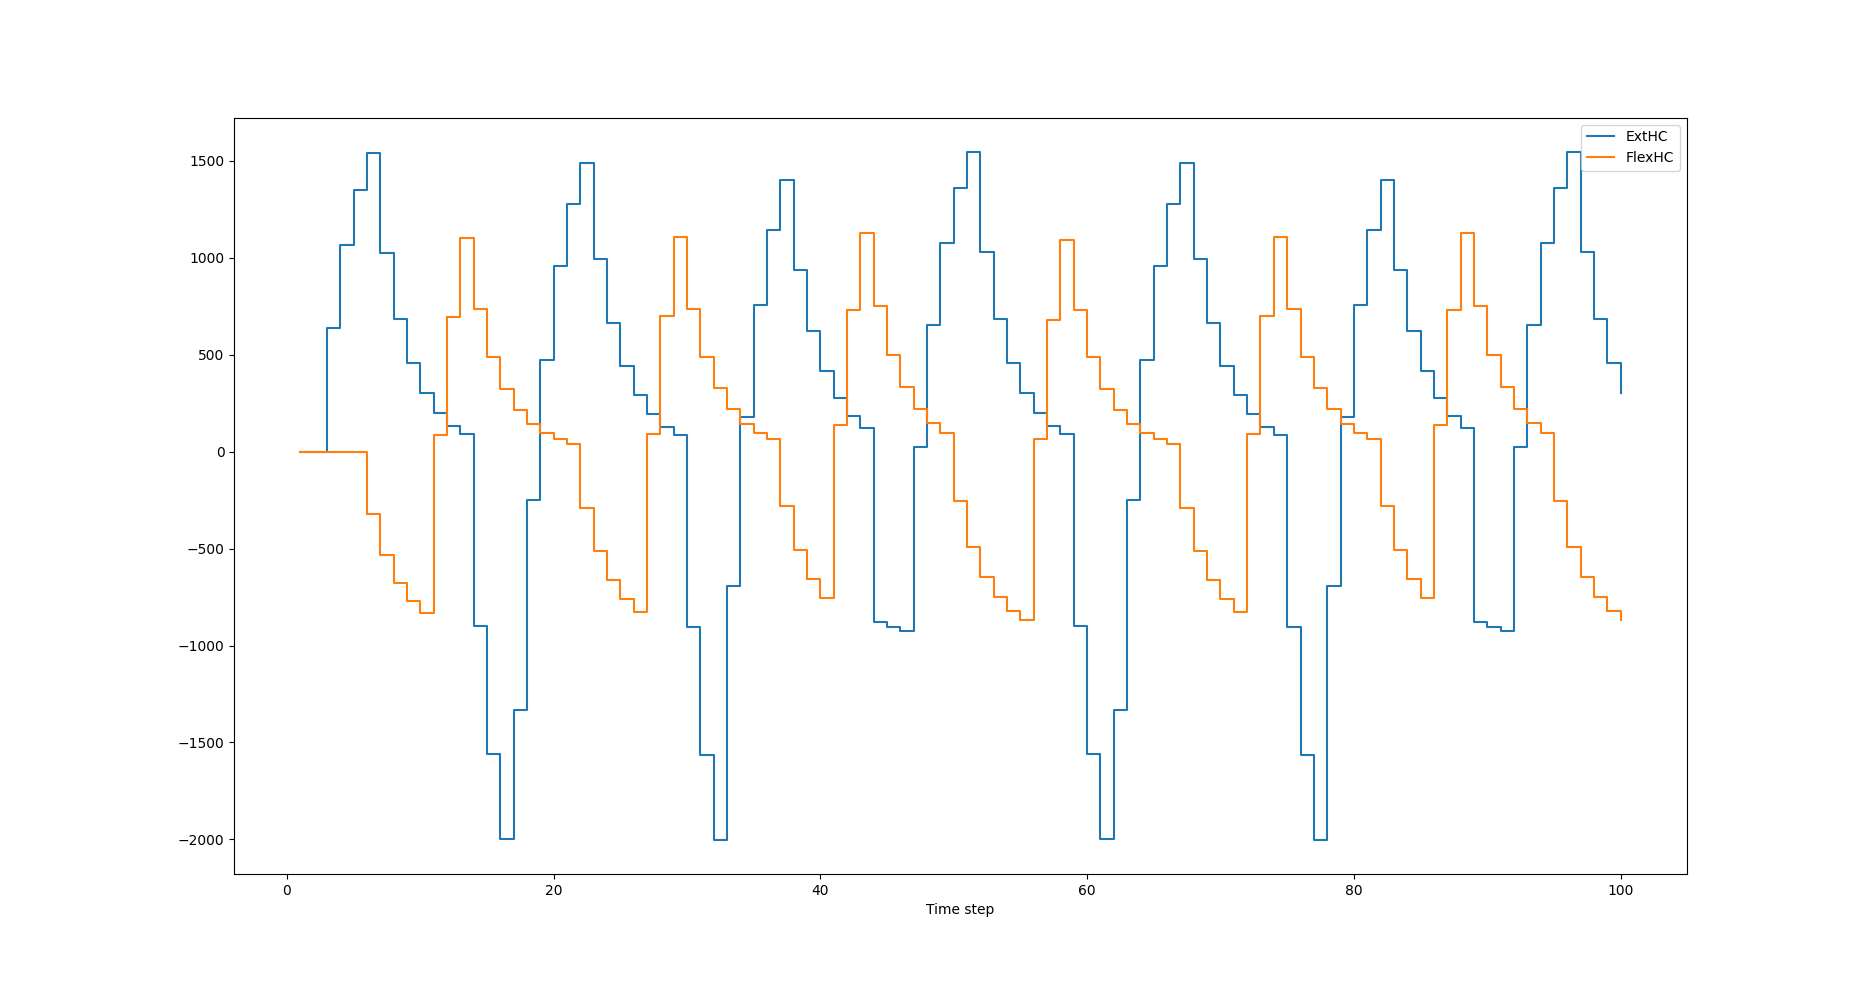
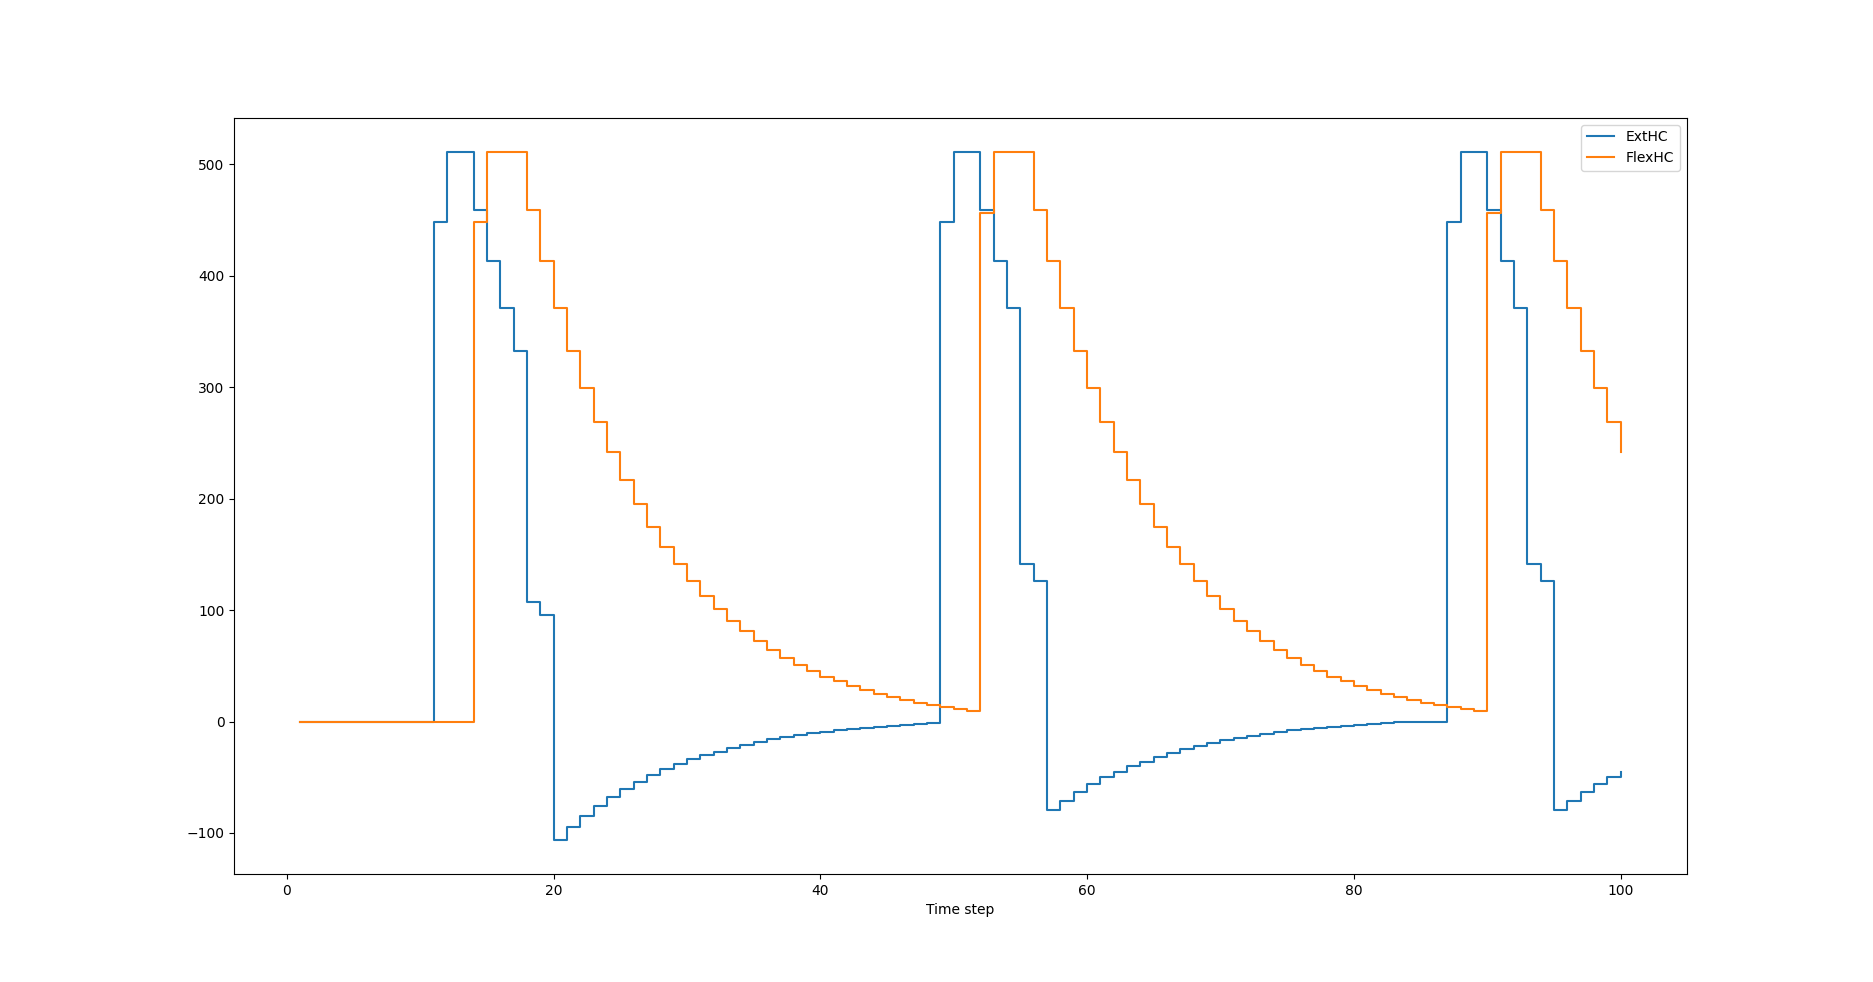
Oscillators are sort of working

diff --git a/lib/cpg/cpg.py b/lib/cpg/cpg.py
@@ -58,12 +58,13 @@ class CentralPatternGenerator:
         self.net = net
         self.debug = debug
 
-        self.intIntVth = 10
+        self.intIntVth = 7
         self.intIntVoltageDecay = int(1 / 10 * 2 ** 12)
 
-        self.switchGateVth = 10
+        self.switchGateVth = 7
         self.switchGateVoltageDecay = int(1 / 10 * 2 ** 12)
 
+        self.vMaxExp = 9
 
         self.ExtHC = HalfCenter(self.net, extensor=True)
         self.FlexHC = HalfCenter(self.net)
@@ -81,14 +82,15 @@ class CentralPatternGenerator:
         IntNeuron_pt = nx.CompartmentPrototype(
             vThMant = self.intIntVth,
             compartmentVoltageDecay=self.intIntVoltageDecay,
+            vMaxExp=self.vMaxExp,
             functionalState=nx.COMPARTMENT_FUNCTIONAL_STATE.IDLE
         )
         IntNeuronGrp = self.net.createCompartmentGroup(size=2, prototype=IntNeuron_pt)
         self.compartments[cpgCxType.ExtensionInterneuron.value] = IntNeuronGrp[0]
         self.compartments[cpgCxType.FlexionInterneuron.value] = IntNeuronGrp[1]
 
-        excitatory_conn_pt = nx.ConnectionPrototype(signMode=nx.SYNAPSE_SIGN_MODE.EXCITATORY, weight=15)
-        halfcenter_link_conn_pt = nx.ConnectionPrototype(signMode=nx.SYNAPSE_SIGN_MODE.INHIBITORY, weight=-15)
+        excitatory_conn_pt = nx.ConnectionPrototype(signMode=nx.SYNAPSE_SIGN_MODE.EXCITATORY, weight=5)
+        halfcenter_link_conn_pt = nx.ConnectionPrototype(signMode=nx.SYNAPSE_SIGN_MODE.INHIBITORY, weight=-3)
 
         self.ExtHC.spikegen_cx.connect(self.ExtensionInterneuron, excitatory_conn_pt)
         self.ExtensionInterneuron.connect(self.FlexHC.halfcenter_cx, halfcenter_link_conn_pt)
@@ -99,12 +101,13 @@ class CentralPatternGenerator:
         SwitchGate_pt = nx.CompartmentPrototype(
             vThMant= self.switchGateVth,
             compartmentVoltageDecay=self.switchGateVoltageDecay,
+            vMaxExp=self.vMaxExp,
             functionalState=nx.COMPARTMENT_FUNCTIONAL_STATE.IDLE
         )
 
         self.compartments[cpgCxType.SwitchGate.value] = self.net.createCompartment(SwitchGate_pt)
-        switchGate_excitatory_conn_pt = nx.ConnectionPrototype(signMode=nx.SYNAPSE_SIGN_MODE.EXCITATORY, weight=15)
-        switchGate_inhibitory_conn_pt = nx.ConnectionPrototype(signMode=nx.SYNAPSE_SIGN_MODE.INHIBITORY, weight=-15)
+        switchGate_excitatory_conn_pt = nx.ConnectionPrototype(signMode=nx.SYNAPSE_SIGN_MODE.EXCITATORY, weight=12)
+        switchGate_inhibitory_conn_pt = nx.ConnectionPrototype(signMode=nx.SYNAPSE_SIGN_MODE.INHIBITORY, weight=-9)
 
         self.ExtHC.spikegen_cx.connect(self.SwitchGate, switchGate_excitatory_conn_pt)
         self.SwitchGate.connect(self.ExtHC.activationGate, switchGate_inhibitory_conn_pt)
@@ -152,19 +155,19 @@ class CentralPatternGenerator:
 
         ax.legend(['ExtHC', 'FlexHC'])
         plt.show()
-
-    def stimulate_interneuron(self, side = 'extension'):
-        """
-        Stimulate the interneuron on the specified side
-        """
-        if side == 'extension':
+    """FIXME:
+    def stimulate_interneuron(self):
+        
+        #Stimulate the interneuron on the specified side
+        
+        if == 'extension':
             nxSpikeGen = self.net.createSpikeGenProcess(numPorts=1)
             sGenConn_pt = nx.ConnectionPrototype(signMode=nx.SYNAPSE_SIGN_MODE.EXCITATORY, weight = 15)
             nxSpikeGen.connect(self.ExtensionInterneuron, prototype=sGenConn_pt)
             nxSpikeGen.addSpikes([0], [[1,2,3,4,5,6,7,8,9,10,11,12,13,14,15]])
         else:
             print("Not implemented yet...")
-
+    """
     @property
     def ExtensionInterneuron(self):
         return self.compartments[cpgCxType.ExtensionInterneuron.value]
@@ -203,7 +206,7 @@ class HalfCenter:
         Spike Generator (SG):
         Functions as the communicate to other neuron trees, or compartments that are external to the neuron tree define in the __core() method
         """   
-        self.SGVthMant = 10
+        self.SGVthMant = 7
         self.SGVoltageDecay = int(1 / 10 * 2 ** 12) # 1/t of the voltage is decayed every time step, it will take t steps to decay to 0
         self.SGCurrentDecay = 4096
         """
@@ -214,7 +217,7 @@ class HalfCenter:
         self.HCVthMant = 7
         self.HCBias = int((self.HCVthMant * 2 ** 6) - 100)
         self.HCCurrentDecay = 4096
-        self.HCVoltageDecay = int(1 / 3 * 2 ** 12)
+        self.HCVoltageDecay = int(1 / 10 * 2 ** 12)
         """
         Sodium Channel (SC): 
         Used to model a persistent sodium channel, sodium Ions are added to the 
@@ -230,14 +233,14 @@ class HalfCenter:
         self.extensor = extensor
         self.ActGateVthMant = 7
         if extensor == True: 
-            self.ActGateBias = int((self.ActGateVthMant / 2) * 2 **6)
+            self.ActGateBias = int((self.ActGateVthMant / 10) * 2 **6)
             self.ActGateCurrentDecay = 4096
             self.ActGateVoltageDecay = int(1 / 100 * 2 ** 12)
 
         else:
             self.ActGateBias = 0
             self.ActGateCurrentDecay = 4096
-            self.ActGateVoltageDecay = int(1 / 3 * 2 ** 12)
+            self.ActGateVoltageDecay = int(1 / 10 * 2 ** 12)
 
         """
         Sodium Ion (NaIon):
@@ -278,6 +281,7 @@ class HalfCenter:
             vThMant=self.ActGateVthMant,
             biasMant = self.ActGateBias,
             compartmentVoltageDecay=self.ActGateVoltageDecay,
+            vMaxExp = self.VMaxExp,
             thresholdBehavior=nx.COMPARTMENT_THRESHOLD_MODE.NO_SPIKE_AND_PASS_V_LG_VTH_TO_PARENT,
             functionalState=nx.COMPARTMENT_FUNCTIONAL_STATE.IDLE
         )
@@ -285,24 +289,28 @@ class HalfCenter:
             vThMant=self.NaIonVthMant,
             biasMant = self.NaIonBias,
             compartmentVoltageDecay=self.NaIonVoltageDecay,
+            vMaxExp = self.VMaxExp,
             thresholdBehavior=nx.COMPARTMENT_THRESHOLD_MODE.NO_SPIKE_AND_PASS_V_LG_VTH_TO_PARENT,
             functionalState=nx.COMPARTMENT_FUNCTIONAL_STATE.IDLE
         )
         SodiumChannel_pt = nx.CompartmentPrototype(
             vThMant=self.SCVthMant,
             compartmentVoltageDecay=self.SCVoltageDecay,
+            vMaxExp = self.VMaxExp,
             thresholdBehavior=nx.COMPARTMENT_THRESHOLD_MODE.NO_SPIKE_AND_PASS_V_LG_VTH_TO_PARENT,
             functionalState=nx.COMPARTMENT_FUNCTIONAL_STATE.IDLE
         )
         HalfCenter_pt = nx.CompartmentPrototype(
             vThMant=self.HCVthMant,
             compartmentVoltageDecay=self.HCVoltageDecay,
+            vMaxExp= self.VMaxExp,
             thresholdBehavior=nx.COMPARTMENT_THRESHOLD_MODE.NO_SPIKE_AND_PASS_V_LG_VTH_TO_PARENT,
             functionalState=nx.COMPARTMENT_FUNCTIONAL_STATE.IDLE,
         )
         SpikeGenerator_pt = nx.CompartmentPrototype(
             vThMant = self.SGVthMant,
             compartmentVoltageDecay=self.SGVoltageDecay,
+            vMaxExp = self.VMaxExp,
             thresholdBehavior = nx.COMPARTMENT_THRESHOLD_MODE.SPIKE_AND_RESET,
             functionalState=nx.COMPARTMENT_FUNCTIONAL_STATE.IDLE,
         )
